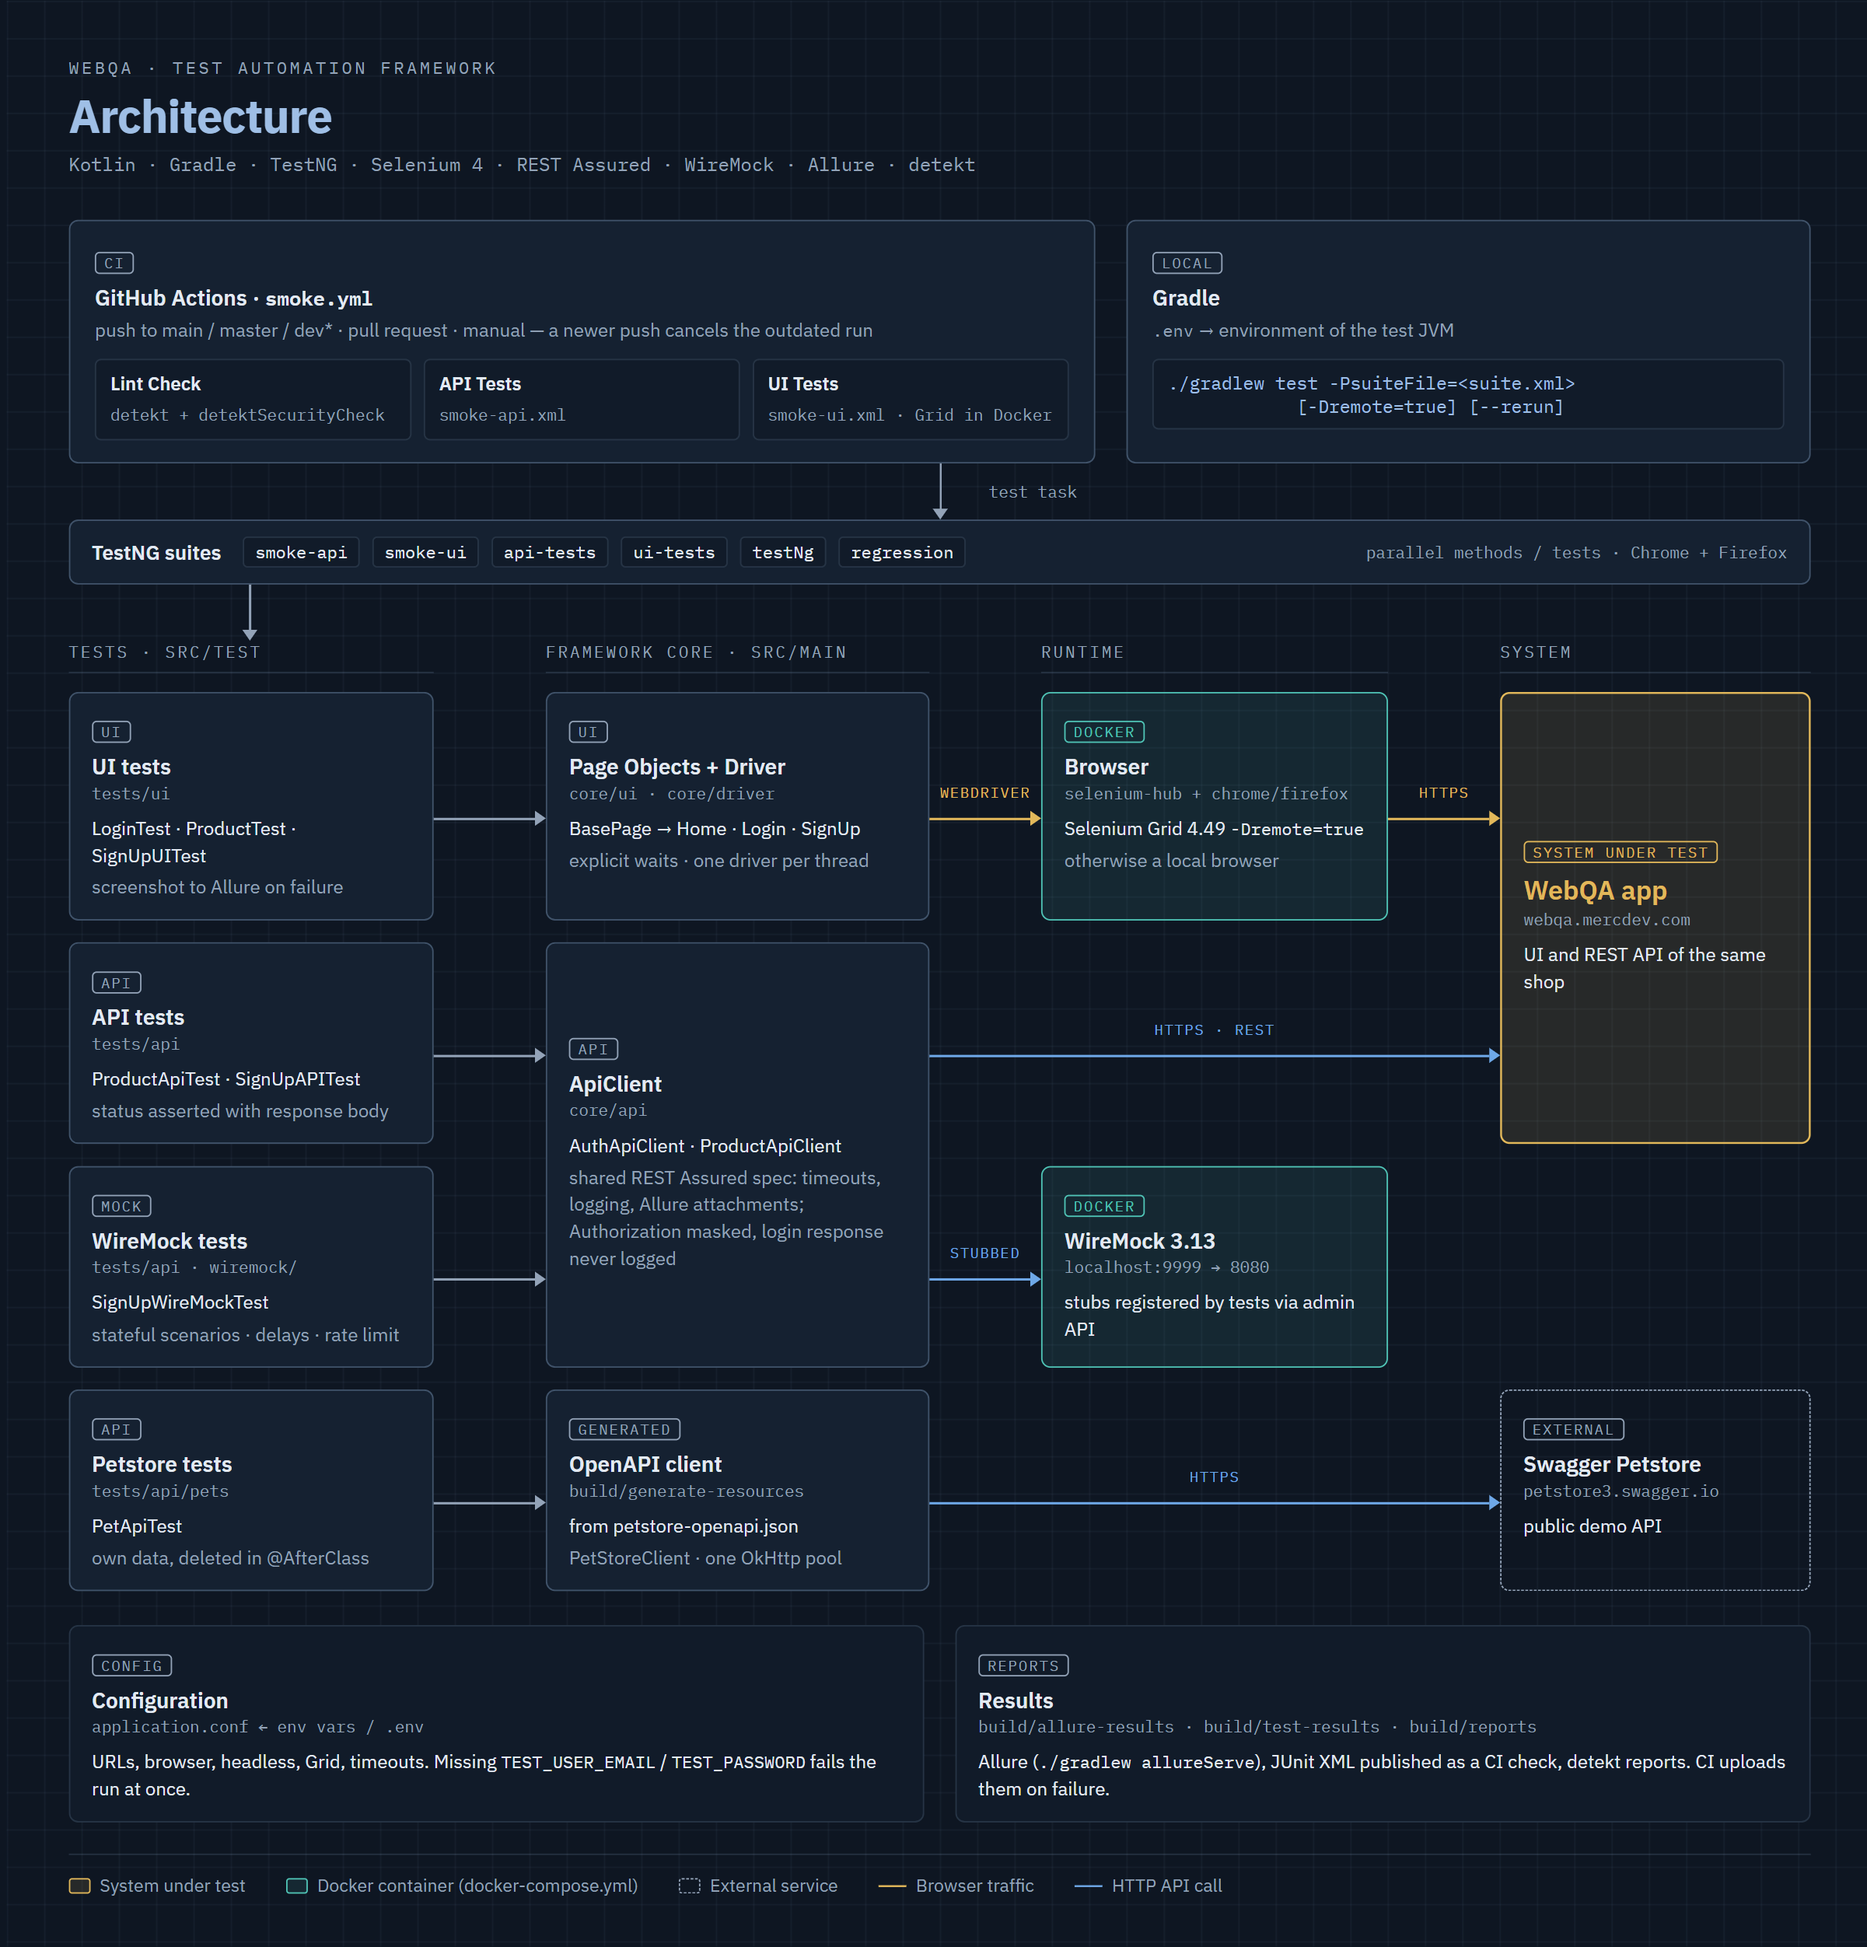
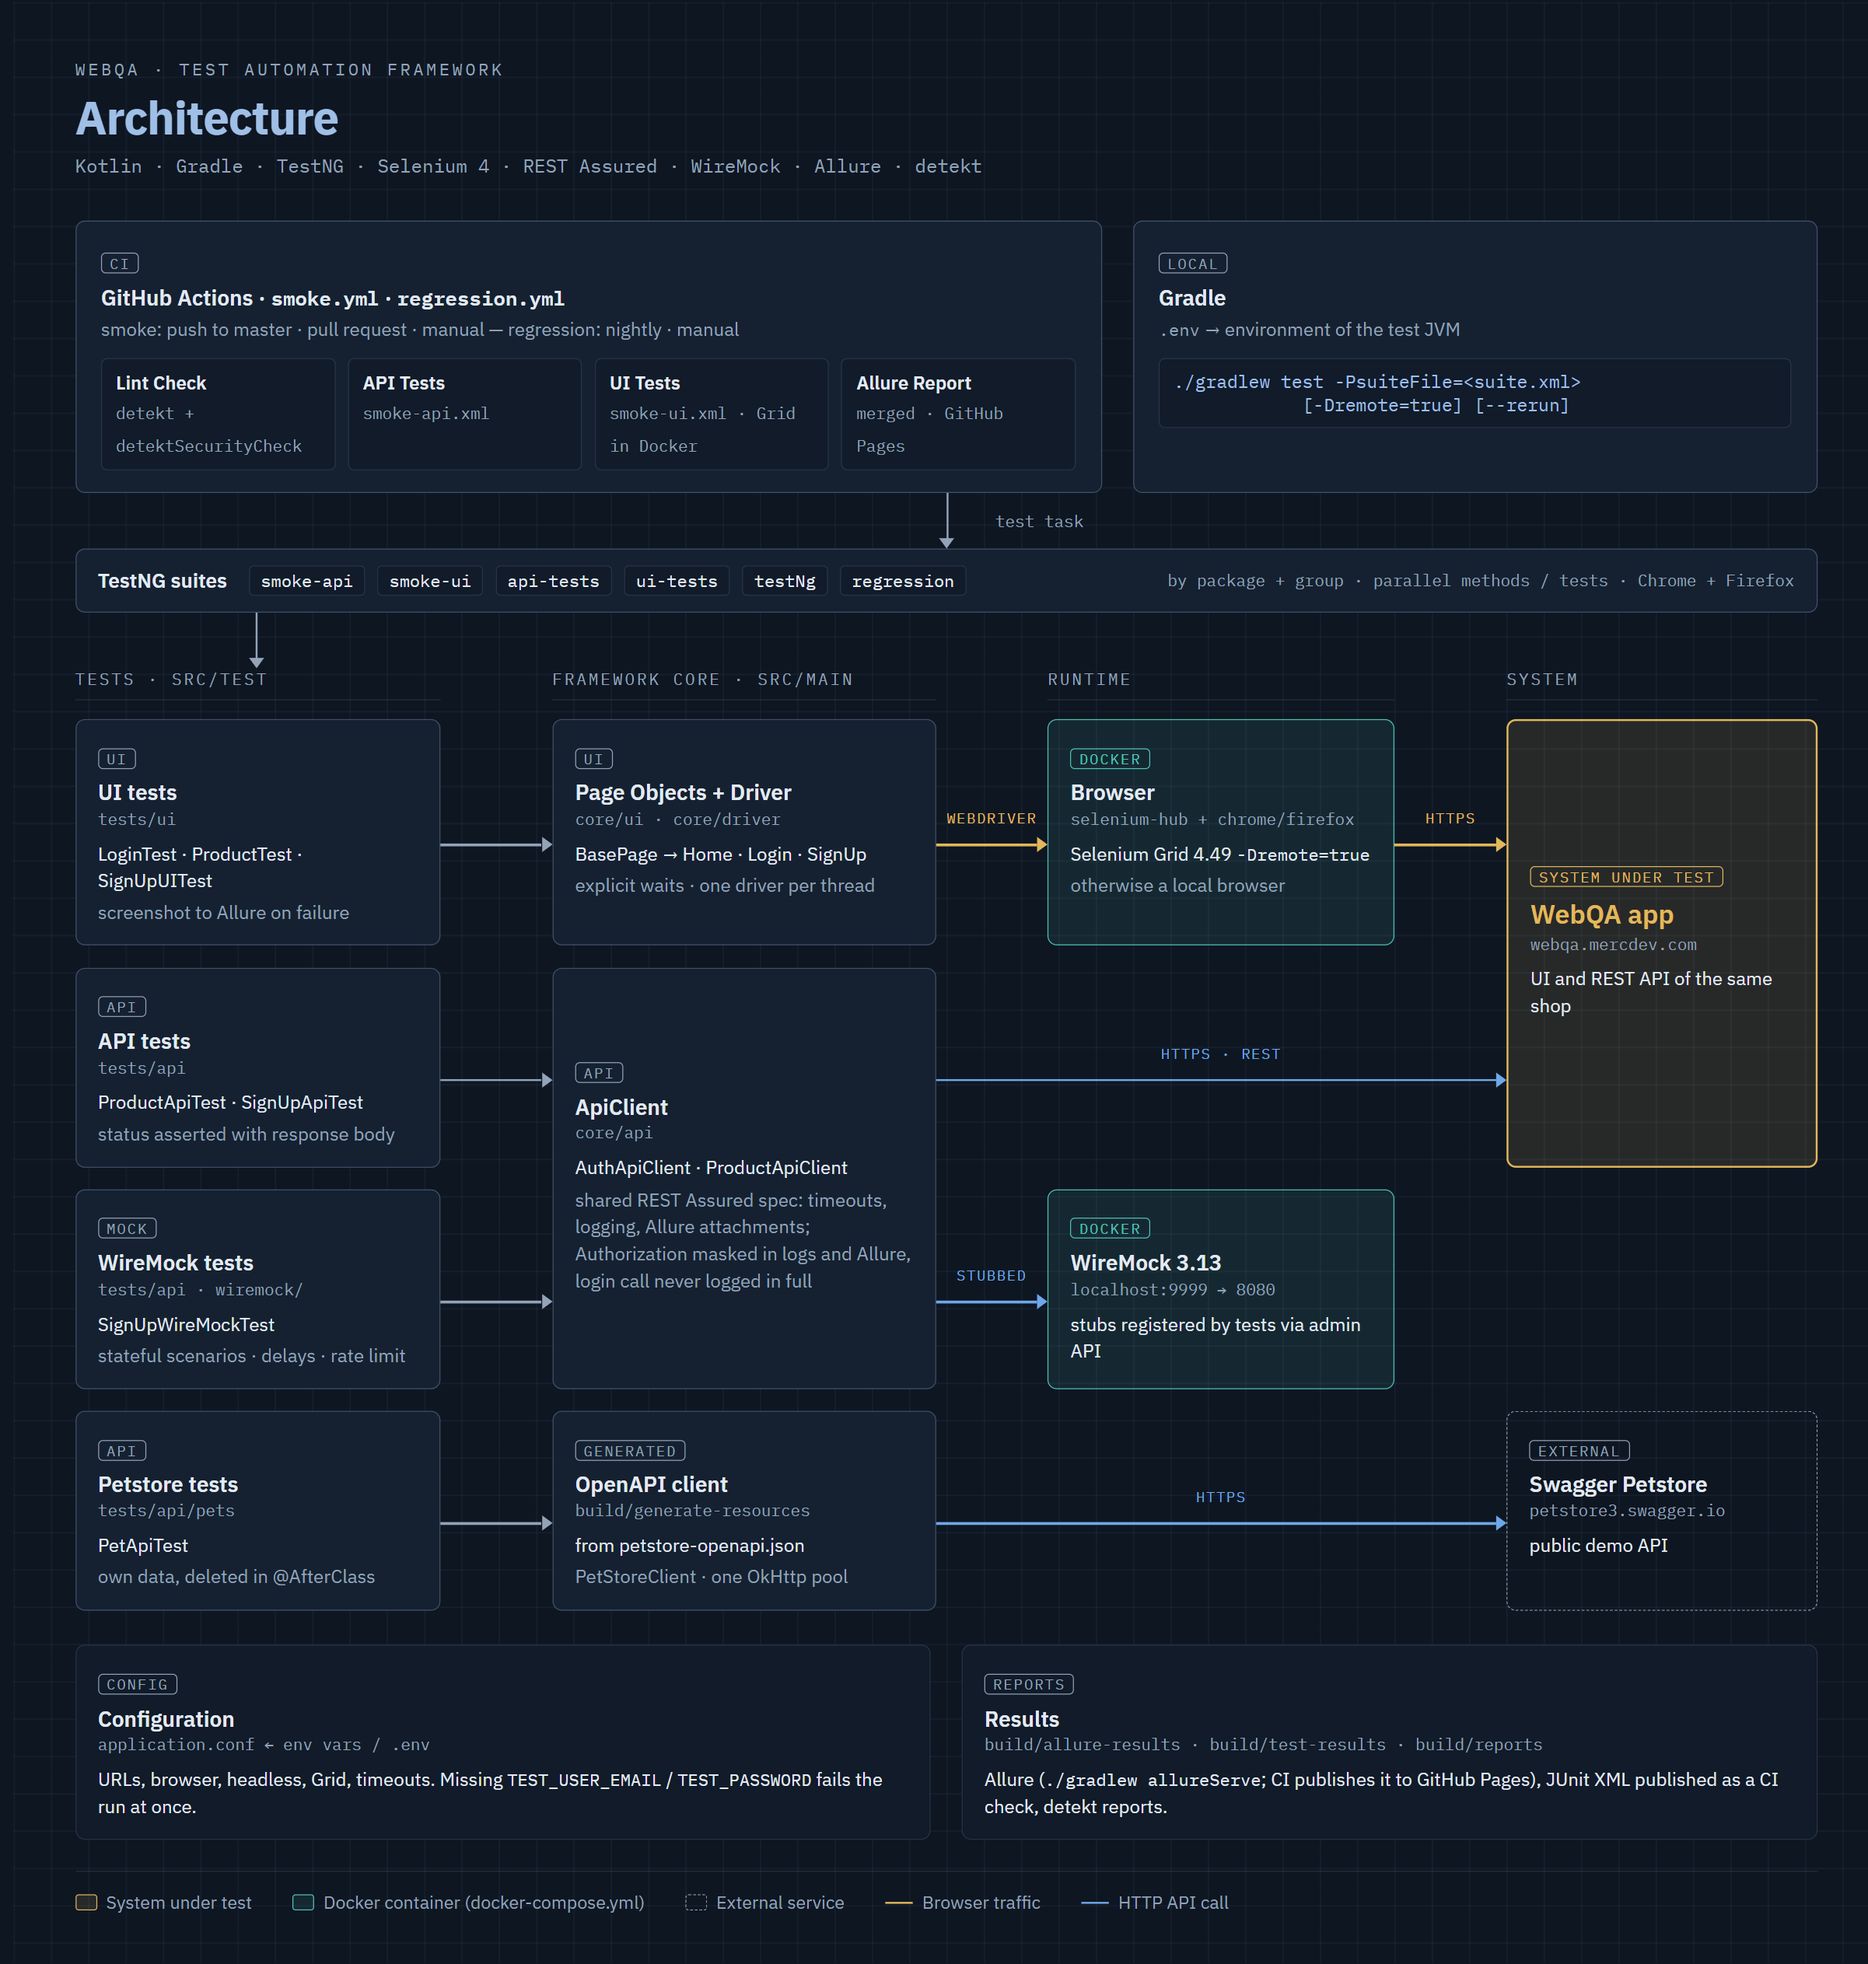
Docs: README and architecture diagram for the new suites, CI and security

diff --git a/docs/architecture.html b/docs/architecture.html
@@ -292,12 +292,13 @@
   <div class="entry">
     <div class="card">
       <span class="tag">CI</span>
-      <h3>GitHub Actions · <code>smoke.yml</code></h3>
-      <p class="dim">push to main / master / dev* · pull request · manual — a newer push cancels the outdated run</p>
+      <h3>GitHub Actions · <code>smoke.yml</code> · <code>regression.yml</code></h3>
+      <p class="dim">smoke: push to master · pull request · manual — regression: nightly · manual</p>
       <div class="jobs">
         <div class="job"><b>Lint Check</b><span>detekt + detektSecurityCheck</span></div>
         <div class="job"><b>API Tests</b><span>smoke-api.xml</span></div>
         <div class="job"><b>UI Tests</b><span>smoke-ui.xml · Grid in Docker</span></div>
+        <div class="job"><b>Allure Report</b><span>merged · GitHub Pages</span></div>
       </div>
     </div>
     <div class="card">
@@ -319,7 +320,7 @@
     <span class="chip">ui-tests</span>
     <span class="chip">testNg</span>
     <span class="chip">regression</span>
-    <span class="note">parallel methods / tests · Chrome + Firefox</span>
+    <span class="note">by package + group · parallel methods / tests · Chrome + Firefox</span>
   </div>
 
   <div class="down to-tests"></div>
@@ -370,7 +371,7 @@
       <span class="tag">API</span>
       <h3>API tests</h3>
       <div class="path">tests/api</div>
-      <p>ProductApiTest · SignUpAPITest</p>
+      <p>ProductApiTest · SignUpApiTest</p>
       <p class="dim">status asserted with response body</p>
     </div>
     <div class="arr" style="grid-column:2; grid-row:3"></div>
@@ -381,7 +382,7 @@
       <h3>ApiClient</h3>
       <div class="path">core/api</div>
       <p>AuthApiClient · ProductApiClient</p>
-      <p class="dim">shared REST Assured spec: timeouts, logging, Allure attachments; Authorization masked, login response never logged</p>
+      <p class="dim">shared REST Assured spec: timeouts, logging, Allure attachments; Authorization masked in logs and Allure, login call never logged in full</p>
     </div>
     <div class="arr http" style="grid-column:4 / span 3; grid-row:3"><span>HTTPS · REST</span></div>
 
@@ -439,7 +440,7 @@
       <span class="tag">Reports</span>
       <h3>Results</h3>
       <div class="path">build/allure-results · build/test-results · build/reports</div>
-      <p>Allure (<code>./gradlew allureServe</code>), JUnit XML published as a CI check, detekt reports. CI uploads them on failure.</p>
+      <p>Allure (<code>./gradlew allureServe</code>; CI publishes it to GitHub Pages), JUnit XML published as a CI check, detekt reports.</p>
     </div>
   </div>
 

diff --git a/README.md b/README.md
@@ -1,6 +1,7 @@
 # WebQA Test Automation Framework
 
-[![Smoke Tests](https://github.com/maksimTrs/WebQA2/actions/workflows/smoke.yml/badge.svg?branch=master)](https://github.com/maksimTrs/WebQA2/actions/workflows/smoke.yml)
+[![Smoke Tests](https://github.com/maksimTrs/WebQA/actions/workflows/smoke.yml/badge.svg?branch=master)](https://github.com/maksimTrs/WebQA/actions/workflows/smoke.yml)
+[![Allure Report](https://img.shields.io/badge/Allure-report-orange)](https://maksimtrs.github.io/WebQA/)
 
 UI and API test automation for the WebQA demo shop, written in Kotlin on TestNG, Selenium WebDriver and REST Assured.
 
@@ -14,10 +15,11 @@ UI and API test automation for the WebQA demo shop, written in Kotlin on TestNG,
 <sub>Source: <code>docs/architecture.html</code>. After editing it, re-take both PNG screenshots of <code>.frame</code> (light and dark color scheme, 2x).</sub>
 
 - **UI**: page objects on explicit waits (`WebDriverWait`, no implicit waits). One driver per thread, so suites run in parallel. Chrome or Firefox, locally or on Selenium Grid. A screenshot is attached to Allure when a test fails.
-- **API**: one `ApiClient` base for all clients. It applies timeouts and logging, and every call is attached to Allure. The `Authorization` header is masked in logs, and the login response that carries the token is neither logged nor attached.
+- **API**: one `ApiClient` base for all clients. It applies timeouts and logging, and every call is attached to Allure. The `Authorization` header is masked in logs and in Allure. The login call carries the password in and the token out, so only its URI and status are logged, and it is not attached.
 - **Mocks**: the same client can point at a WireMock container, which serves stateful scenarios, delays and rate limiting (`SignUpWireMockTest`).
-- **Petstore**: a client generated from `petstore-openapi.json` by OpenAPI Generator. Tests delete the pets they create.
+- **Petstore**: a client generated from `petstore-openapi.json` by OpenAPI Generator. Tests delete the pets they create. They target the public demo by default; `docker compose up -d --wait petstore` plus `PETSTORE_BASE_URL=http://localhost:8085/api/v3` runs them against a local copy.
 - **Config**: `application.conf` (Typesafe Config) with environment-variable overrides. A missing `TEST_USER_EMAIL` / `TEST_PASSWORD` fails the run immediately with a clear message.
+- **Suites**: TestNG suites select tests by package and group (`smoke`, `wiremock`), not by class or method name, so a new or renamed test stays in its suites.
 
 Stack: Kotlin · Gradle · TestNG · Selenium 4 · REST Assured · WireMock · AssertJ · Allure · DataFaker · detekt.
 
@@ -29,7 +31,7 @@ Stack: Kotlin · Gradle · TestNG · Selenium 4 · REST Assured · WireMock · A
    ```bash
    cp .env.example .env   # then set TEST_USER_EMAIL and TEST_PASSWORD
    ```
-   Gradle passes `.env` to the tests. Real environment variables take precedence. Optional overrides (browser, URLs, headless, Grid URL) are listed in `.env.example`.
+   Gradle passes `.env` to the tests. Real environment variables take precedence. Optional overrides (browser, URLs, headless, Grid URL, timeouts) are listed in `.env.example`.
 4. Git hooks (once per clone):
    ```bash
    git config core.hooksPath .githooks
@@ -51,29 +53,29 @@ WEBDRIVER_HEADLESS=true ./gradlew test -PsuiteFile=src/test/resources/smoke-ui.x
 
 | Suite (`src/test/resources/`) | Content |
 |---|---|
-| `smoke-api.xml`, `smoke-ui.xml` | Critical path. Used by CI |
+| `smoke-api.xml`, `smoke-ui.xml` | Group `smoke`: critical path. Used by CI |
 | `api-tests.xml` | WebQA API and Petstore tests |
 | `ui-tests.xml` | UI tests in Chrome and Firefox in parallel |
-| `testNg.xml` | All tests except WireMock |
+| `testNg.xml` | All tests except group `wiremock` |
 | `regression.xml` | Everything, including WireMock (needs the container) |
 
 ### Selenium Grid
 
 ```bash
-docker compose up -d selenium-hub chrome firefox
+docker compose up -d --wait selenium-hub chrome firefox   # --wait: until a node has registered
 ./gradlew test -PsuiteFile=src/test/resources/ui-tests.xml -Dremote=true
 ```
 
-Grid UI: http://localhost:4444/ui. Watch a browser over VNC: Chrome at http://localhost:7900, Firefox at http://localhost:7901 (no password).
+Grid UI: http://localhost:4444/ui. Watch a browser over VNC: Chrome at http://localhost:7900, Firefox at http://localhost:7901 (no password). All ports are bound to `127.0.0.1`, so they are not reachable from the network.
 
 ### WireMock
 
 ```bash
-docker compose up -d wiremock      # host port: WIREMOCK_PORT, default 9999
+docker compose up -d --wait wiremock      # host port: WIREMOCK_PORT, default 9999
 ./gradlew test --tests com.webqa.tests.api.SignUpWireMockTest
 ```
 
-The tests register their own stubs via the admin API, so `wiremock/mappings` can stay empty.
+The tests register their own stubs via the admin API and reset WireMock before and after the class, so `wiremock/mappings` can stay empty and an interrupted run leaves no state behind.
 
 ## Reports
 
@@ -81,7 +83,7 @@ The tests register their own stubs via the admin API, so `wiremock/mappings` can
 ./gradlew allureServe     # build and open the Allure report (allureReport only builds it)
 ```
 
-Raw results are written to `build/allure-results`, JUnit XML to `build/test-results/test`.
+Raw results are written to `build/allure-results`, JUnit XML to `build/test-results/test`. CI publishes the report of the latest `master` run, with trends, to [GitHub Pages](https://maksimtrs.github.io/WebQA/).
 
 ## Static analysis
 
@@ -89,14 +91,17 @@ Raw results are written to `build/allure-results`, JUnit XML to `build/test-resu
 ./gradlew detekt detektSecurityCheck
 ```
 
-Both tasks fail on any finding (`maxIssues: 0`). Reports are written to `build/reports/detekt/`. Config: `config/detekt/detekt.yml`, `detekt-security.yml`, `baseline.xml`.
+Both tasks fail on any finding (`maxIssues: 0`). Reports are written to `build/reports/detekt/`. Config: `config/detekt/detekt.yml` (only the deviations from the detekt defaults) and `detekt-security.yml`.
 
 ## CI
 
-`.github/workflows/smoke.yml` runs on pushes to `main`/`master`/`dev*`, on pull requests and manually. Three independent jobs:
+`.github/workflows/smoke.yml` runs on pushes to `master`, on pull requests and manually:
 
 - **Lint Check**: detekt.
 - **API Tests**: `smoke-api.xml`.
 - **UI Tests**: `smoke-ui.xml` on Selenium Grid in Docker.
+- **Allure Report**: merges the results of both test jobs into one report, uploaded as an artifact. On `master` it is deployed to GitHub Pages.
 
-Credentials come from the `TEST_USER_EMAIL` and `TEST_PASSWORD` secrets. A newer push cancels the outdated run. Reports are uploaded as artifacts when a job fails.
+`.github/workflows/regression.yml` runs nightly and manually: every test once in Chrome on Grid, including WireMock and Petstore in local containers (`regression.xml` without the Firefox pass).
+
+Credentials come from the `TEST_USER_EMAIL` and `TEST_PASSWORD` secrets. Pull requests from forks get no secrets, so they run only the lint. A newer push cancels the outdated run. Test and Grid reports are uploaded as artifacts when a job fails. Gradle runs through `gradle/actions/setup-gradle`, which caches dependencies and validates the wrapper jar.
